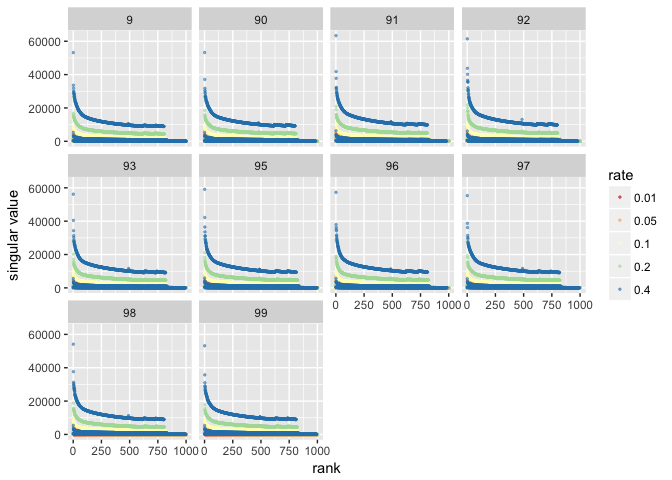
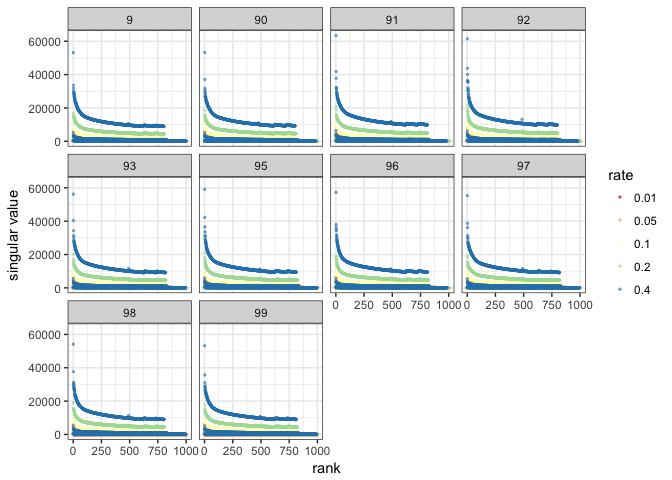
Change graphs into white backgrounds

diff --git a/Graph_Sparsification/Result/tfidf_sampling/matrix_sampling_TFIDF.md b/Graph_Sparsification/Result/tfidf_sampling/matrix_sampling_TFIDF.md
@@ -91,7 +91,7 @@ tfidf_summary <- get_summary(all)
 
 ```r
 # Plot tfidf 
-ggplot(tfidf_summary, aes(x = rate, y = cov, colour = nsv, group = nsv)) + geom_point() + facet_wrap(~matrix_name)
+ggplot(tfidf_summary, aes(x = rate, y = cov, colour = nsv, group = nsv)) + geom_point() + facet_wrap(~matrix_name) + theme_bw()
 ```
 
 ![](matrix_sampling_TFIDF_files/figure-html/tfidf_coverage-1.png)<!-- -->
@@ -112,7 +112,7 @@ Scalar = 10
 # Create different data.frame for different scalar group (including the sample = 1 group)
 all_10 <- rbind(tfidf_original, tfidf[tfidf$scalar==10,])
 all_10 <- get_summary(all_10)
-ggplot(all_10, aes(x = rate, y = cov, colour = nsv, group = nsv)) + geom_point() + geom_line() +  facet_wrap(~matrix_name)
+ggplot(all_10, aes(x = rate, y = cov, colour = nsv, group = nsv)) + geom_point() + geom_line() +  facet_wrap(~matrix_name) + theme_bw()
 ```
 
 ![](matrix_sampling_TFIDF_files/figure-html/tfidf_coverage_scalar10-1.png)<!-- -->
@@ -122,7 +122,7 @@ Scalar = 100
 ```r
 all_100 <- rbind(tfidf_original, tfidf[tfidf$scalar==100,])
 all_100 <- get_summary(all_100)
-ggplot(all_100, aes(x = rate, y = cov, colour = nsv, group = nsv)) + geom_point() + geom_line() +  facet_wrap(~matrix_name)
+ggplot(all_100, aes(x = rate, y = cov, colour = nsv, group = nsv)) + geom_point() + geom_line() +  facet_wrap(~matrix_name) + theme_bw()
 ```
 
 ![](matrix_sampling_TFIDF_files/figure-html/tfidf_coverage_scalar100-1.png)<!-- -->
@@ -132,7 +132,7 @@ Scalar = 1000
 ```r
 all_1000 <- rbind(tfidf_original, tfidf[tfidf$scalar==1000,])
 all_1000 <- get_summary(all_1000)
-ggplot(all_1000, aes(x = rate, y = cov, colour = nsv, group = nsv)) + geom_point() + geom_line() +  facet_wrap(~matrix_name)
+ggplot(all_1000, aes(x = rate, y = cov, colour = nsv, group = nsv)) + geom_point() + geom_line() +  facet_wrap(~matrix_name) + theme_bw()
 ```
 
 ![](matrix_sampling_TFIDF_files/figure-html/tfidf_coverage_scalar1000-1.png)<!-- -->
@@ -151,7 +151,7 @@ For multiplier = 10
 
 ```r
 # Excluding 93 to see the others better. 
-ggplot(svals_tfidf[c(svals_tfidf$id != "93", svals_tfidf$multiplier==10), ], aes(x=rank, y=error_estimate_mean, colour=rate)) + geom_point(alpha=0.5, size=0.5) + facet_wrap(~id) + scale_color_brewer(palette="Spectral") + ylab("singular values")
+ggplot(svals_tfidf[c(svals_tfidf$id != "93", svals_tfidf$multiplier==10), ], aes(x=rank, y=error_estimate_mean, colour=rate)) + geom_point(alpha=0.5, size=0.5) + facet_wrap(~id) + scale_color_brewer(palette="Spectral") + ylab("singular values") + theme_bw()
 ```
 
 ```
@@ -165,14 +165,14 @@ A look at the singular values
 
 
 ```r
-ggplot(svals_tfidf, aes(x=rank, y=singular_value_mean, colour=rate)) + geom_point(alpha=0.5, size=0.5) + facet_wrap(~id) + scale_color_brewer(palette="Spectral") + ylab("singular value")
+ggplot(svals_tfidf, aes(x=rank, y=singular_value_mean, colour=rate)) + geom_point(alpha=0.5, size=0.5) + facet_wrap(~id) + scale_color_brewer(palette="Spectral") + ylab("singular value") + theme_bw()
 ```
 
 ![](matrix_sampling_TFIDF_files/figure-html/mean_svals-1.png)<!-- -->
 
 ```r
 # Exclude 93 for 3 by 3 
-ggplot(svals_tfidf[svals_tfidf$id != "93", ], aes(x=rank, y=singular_value_mean, colour=rate)) + geom_point(alpha=0.5, size=0.5) + facet_wrap(~id) + scale_color_brewer(palette="Spectral") + ylab("singular value")
+ggplot(svals_tfidf[svals_tfidf$id != "93", ], aes(x=rank, y=singular_value_mean, colour=rate)) + geom_point(alpha=0.5, size=0.5) + facet_wrap(~id) + scale_color_brewer(palette="Spectral") + ylab("singular value") + theme_bw()
 ```
 
 ![](matrix_sampling_TFIDF_files/figure-html/mean_svals-2.png)<!-- -->
@@ -307,7 +307,7 @@ Graph result
 
 
 ```r
-ggplot(run_time_summary, aes(x = sample_rate, y = mean, colour = scalar, group = scalar)) + geom_point() + geom_line() + geom_errorbar(aes(ymax = mean + de, ymin=mean - de), width=0.01) +  facet_wrap(~matrix_name)
+ggplot(run_time_summary, aes(x = sample_rate, y = mean, colour = scalar, group = scalar)) + geom_point() + geom_line() + geom_errorbar(aes(ymax = mean + de, ymin=mean - de), width=0.01) +  facet_wrap(~matrix_name) + theme_bw()
 ```
 
 ![](matrix_sampling_TFIDF_files/figure-html/runningtime_tfidf_summary-1.png)<!-- -->
@@ -316,7 +316,7 @@ Remove 90, 91, and 92 to show the data better.
 
 ```r
 run_time_summary_subset <- subset(run_time_summary, !matrix_name %in% c("90", "91", "92"))
-ggplot(run_time_summary_subset, aes(x = sample_rate, y = mean, colour = scalar, group = scalar)) + geom_point() + geom_line() + geom_errorbar(aes(ymax = mean + de, ymin=mean - de), width=0.01) +  facet_wrap(~matrix_name)
+ggplot(run_time_summary_subset, aes(x = sample_rate, y = mean, colour = scalar, group = scalar)) + geom_point() + geom_line() + geom_errorbar(aes(ymax = mean + de, ymin=mean - de), width=0.01) +  facet_wrap(~matrix_name) + theme_bw()
 ```
 
 ![](matrix_sampling_TFIDF_files/figure-html/runningtime_tfidf_no_outliers-1.png)<!-- -->
@@ -452,7 +452,7 @@ Graph result
 
 
 ```r
-ggplot(sparsity_summary, aes(x = sample_rate, y = mean, colour = scalar, group = scalar)) + geom_point() + geom_line() + geom_errorbar(aes(ymax = mean + de, ymin=mean - de), width=0.01) +  facet_wrap(~matrix_name)
+ggplot(sparsity_summary, aes(x = sample_rate, y = mean, colour = scalar, group = scalar)) + geom_point() + geom_line() + geom_errorbar(aes(ymax = mean + de, ymin=mean - de), width=0.01) +  facet_wrap(~matrix_name) + theme_bw()
 ```
 
 ![](matrix_sampling_TFIDF_files/figure-html/sparsity_tfidf_summary-1.png)<!-- -->
@@ -460,7 +460,7 @@ ggplot(sparsity_summary, aes(x = sample_rate, y = mean, colour = scalar, group =
 Make 3 by 3 
 
 ```r
-ggplot(sparsity_summary[sparsity_summary$matrix_name!="9", ], aes(x = sample_rate, y = mean, colour = scalar, group = scalar)) + geom_point() + geom_line() + geom_errorbar(aes(ymax = mean + de, ymin=mean - de), width=0.01) +  facet_wrap(~matrix_name)
+ggplot(sparsity_summary[sparsity_summary$matrix_name!="9", ], aes(x = sample_rate, y = mean, colour = scalar, group = scalar)) + geom_point() + geom_line() + geom_errorbar(aes(ymax = mean + de, ymin=mean - de), width=0.01) +  facet_wrap(~matrix_name) + theme_bw()
 ```
 
 ![](matrix_sampling_TFIDF_files/figure-html/sparsity_tfidf_3by3-1.png)<!-- -->
